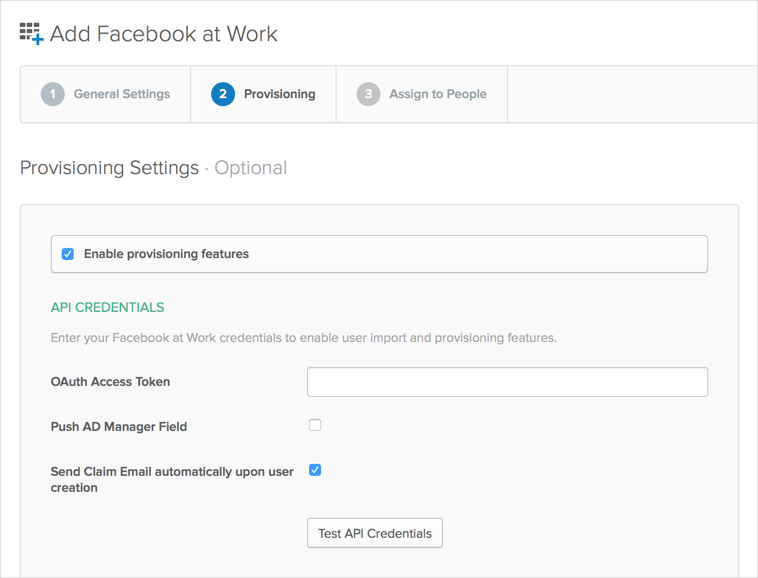
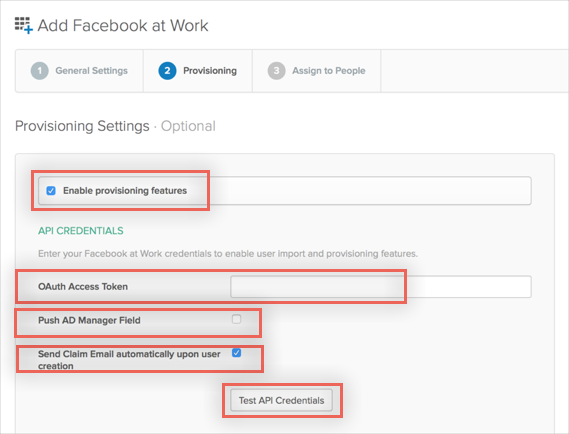
new Provisioning Guide for Facebook for work per OKTA-97175

diff --git a/Provisioning_Docs/Facebook-at-Work_Provisioning.html b/Provisioning_Docs/Facebook-at-Work_Provisioning.html
@@ -1,0 +1,151 @@
+<html>
+<head>
+<link href="../resources/css/doc-style.css" media="all" rel="stylesheet" type="text/css" />
+<script src="../resources/js/jff5neq.js" type="text/javascript"></script>
+<script type="text/javascript">
+try{Typekit.load();}catch(e){}
+</script>
+<script src="../resources/js/jquery.min.js"></script>
+    <script src="../resources/js/vkbeautify.js"></script>
+
+<title>Facebook at Work Provisioning</title>
+
+<script src="../resources/js/getAppValues.js"></script>
+
+<meta http-equiv="Content-Type" content="text/html; charset=UTF-8">
+</head>
+<body>
+<div class="header clearfix">
+        <div class="logo-container">
+            <img src="../resources/img/okta-logo-white.png" alt="Okta" />
+        </div>
+    </div>
+<div class="okta-instructions">
+
+<div id="loginAdminApp" class="okta-callout okta-error" style="display: none;"><span class="icon-24 icon-error"></span>
+<p>To reconfigure any of the <strong>General Settings</strong> or <strong>Sign-On Options</strong>, uncheck the <strong>Enable provisioning features</strong> box, and use the <strong>Previous</strong> and <strong>Next</strong> buttons to navigate through the configuration screens.</p>
+</div> 
+
+
+<h1>Configuring Provisioning for Facebook at Work</h1>
+
+<p>This guide provides the steps required to configure Provisioning for Facebook at Work</p>
+
+ <div class="okta-callout okta-warning"><span class="icon-24 icon-warning"></span>
+
+        <p><strong>Note</strong>: The <strong>Push Groups</strong> feature currently not functional, although it is displayed in UI. This feature will be available shortly.</p>
+
+    </div>
+
+
+<h2>Contents</H2>
+
+<ul>
+<li><a href="#features">Features</a></li>
+
+<li><a href="#requirements">Requirements</a></li>
+<li><a href="#configuration">Configuration Steps</a></li>
+<li><a href="#schema">Schema Discovery</a></li>
+<li><a href="#tips">Troubleshooting Tips</a></li>
+</ul>
+
+<hr>
+
+<a name="features"></a><h2>Features</h2>
+<p>The following provisioning features are supported:</p>
+
+<ul>
+<li><p><strong>Import New Users</strong></p></li>
+
+<li><p><strong>Import Profile Updates</strong></p></li>
+
+
+<li><p><strong>Import User Schema</strong></p></li>
+
+<li><p><strong>Push New Users</strong></p></li>
+
+<li><p><strong>Push Profile Updates</strong></p></li>
+
+<li><p><strong>Push Password Updates</strong></p></li>
+
+<li><p><strong>Push User Deactivation</strong></p></li>
+
+</ul>
+
+
+
+
+
+
+
+<hr>
+<a name="requirements"></a><h2>Requirements</h2>
+<p>To enable <strong>Provisioning Features</strong>, you need to first get an <strong>Organization ID</strong> and <strong>OAuth Access Token</strong> from Facebook, as described here:</p>
+
+
+<ol>
+<li><p>Login to your Facebook at Work organization under an Admin Account.</p></li>
+<li><p>Navigate to <strong>Company Dashboard</strong>:</p>
+<p><img style="border: 0; padding: 0;" src="images/apps/facebook1.png" alt=“facebook1.png” /></p>
+</li>
+
+<li><p>Locate the <strong>Settings</strong> tab and <strong>Membership</strong> section:</p>
+<p><img style="border: 0; padding: 0;" src="images/apps/facebook2.png" alt=“facebook2.png” /></p>
+</li>
+<li><p>Make note of the <strong>Organization ID</strong> and <strong>OAuth Access Token</strong> values, you need these to configure Provisioning.</p></li>
+
+
+
+<hr>
+
+<a name="configuration"></a><h2>Configuration Steps</h2>
+
+<p>Make sure you have entered your Facebook Subdomain and Organization ID under the <strong>General Settings</strong> tab:</p>
+<p><img style="border: 0; padding: 0;" src="images/apps/facebook3.png" alt=“facebook3.png” /></p>
+
+<p>Now you can configure your Provisioning settings for <strong>Facebook at Work</strong> as follows:</p>
+<ol>
+<li><p>Check the <strong>Enable provisioning</strong> features box.</p></li>
+
+<li><p>Enter the following <strong>API CREDENTIALS</strong>:</p>
+<ul>
+<li><p>Enter your <strong>OAuth Access Token</strong>.</p></li>
+<li><p><strong>Push AD Manager Field</strong>. Check this if you'd like to provision User's manager field from Active Directory (note that AD must be configured and the Manager User must exist in Facebook At Work).</p></li>
+<li><p><strong>Send Claim Email</strong>. Check this if you'd like Facebook to send an invitation email upon user creation. Note that SAML users may not want to enable this.</p></li>
+<li><p>Click <strong>Test API Credentials</strong> to validate your configuration.</p></li>
+</ul>
+<p><img style="border: 0; padding: 0;" src="images/apps/facebook4.png" alt=“facebook4.png” /></p>
+</li>
+<li><p>Scroll down and select the <strong>Provisioning Features</strong> you'd like to enable, select <strong>Next</strong>, then <strong>Done</strong> to finish the App configuration.</p></li>
+
+<li><p>You can now assign people to the app, if needed.</p>
+</li>
+
+</ol>
+
+
+<hr>
+<a name="schema"></a><h2>Schema Discovery</h2>
+
+<p>Facebook At Work supports User's Schema Discovery, so you can add extra attributes if available to User's Profile. To do that in Okta:</p>
+<ol>
+<li><p>Navigate to <strong>Directory > Profile Editor</strong>.</p></li>
+<li><p>Select the <strong>APPS</strong> section in the left pane, then find your app in the list.</p></li>
+<li><p>Check the list of the attributes and if you didn't found what you need, click the <strong>Add Attribute</strong> to display a list of extended attributes.</p></li>
+<li><p>Check the attributes you want to add, then click <strong>Save</strong>.</p></li>
+</ol>
+<p>You are now able to import and push these User's attributes values from/to Facebook.</p>
+
+
+
+<hr>
+<a name="tips"></a><h2>Troubleshooting Tips</h2>
+<p>The <strong>Group Push</strong> feature is not functional due to deprecation of groups management via Facebook SCIM API, so creating and updating Groups may fail with the following error:</p>
+<p><img style="border: 0; padding: 0;" src="images/apps/facebook5.png" alt=“facebook5.png” /></p>
+<p>This feature will be available shortly so this will no longer be an issue.</p>
+
+
+</div>
+</body>
+</html>
+
